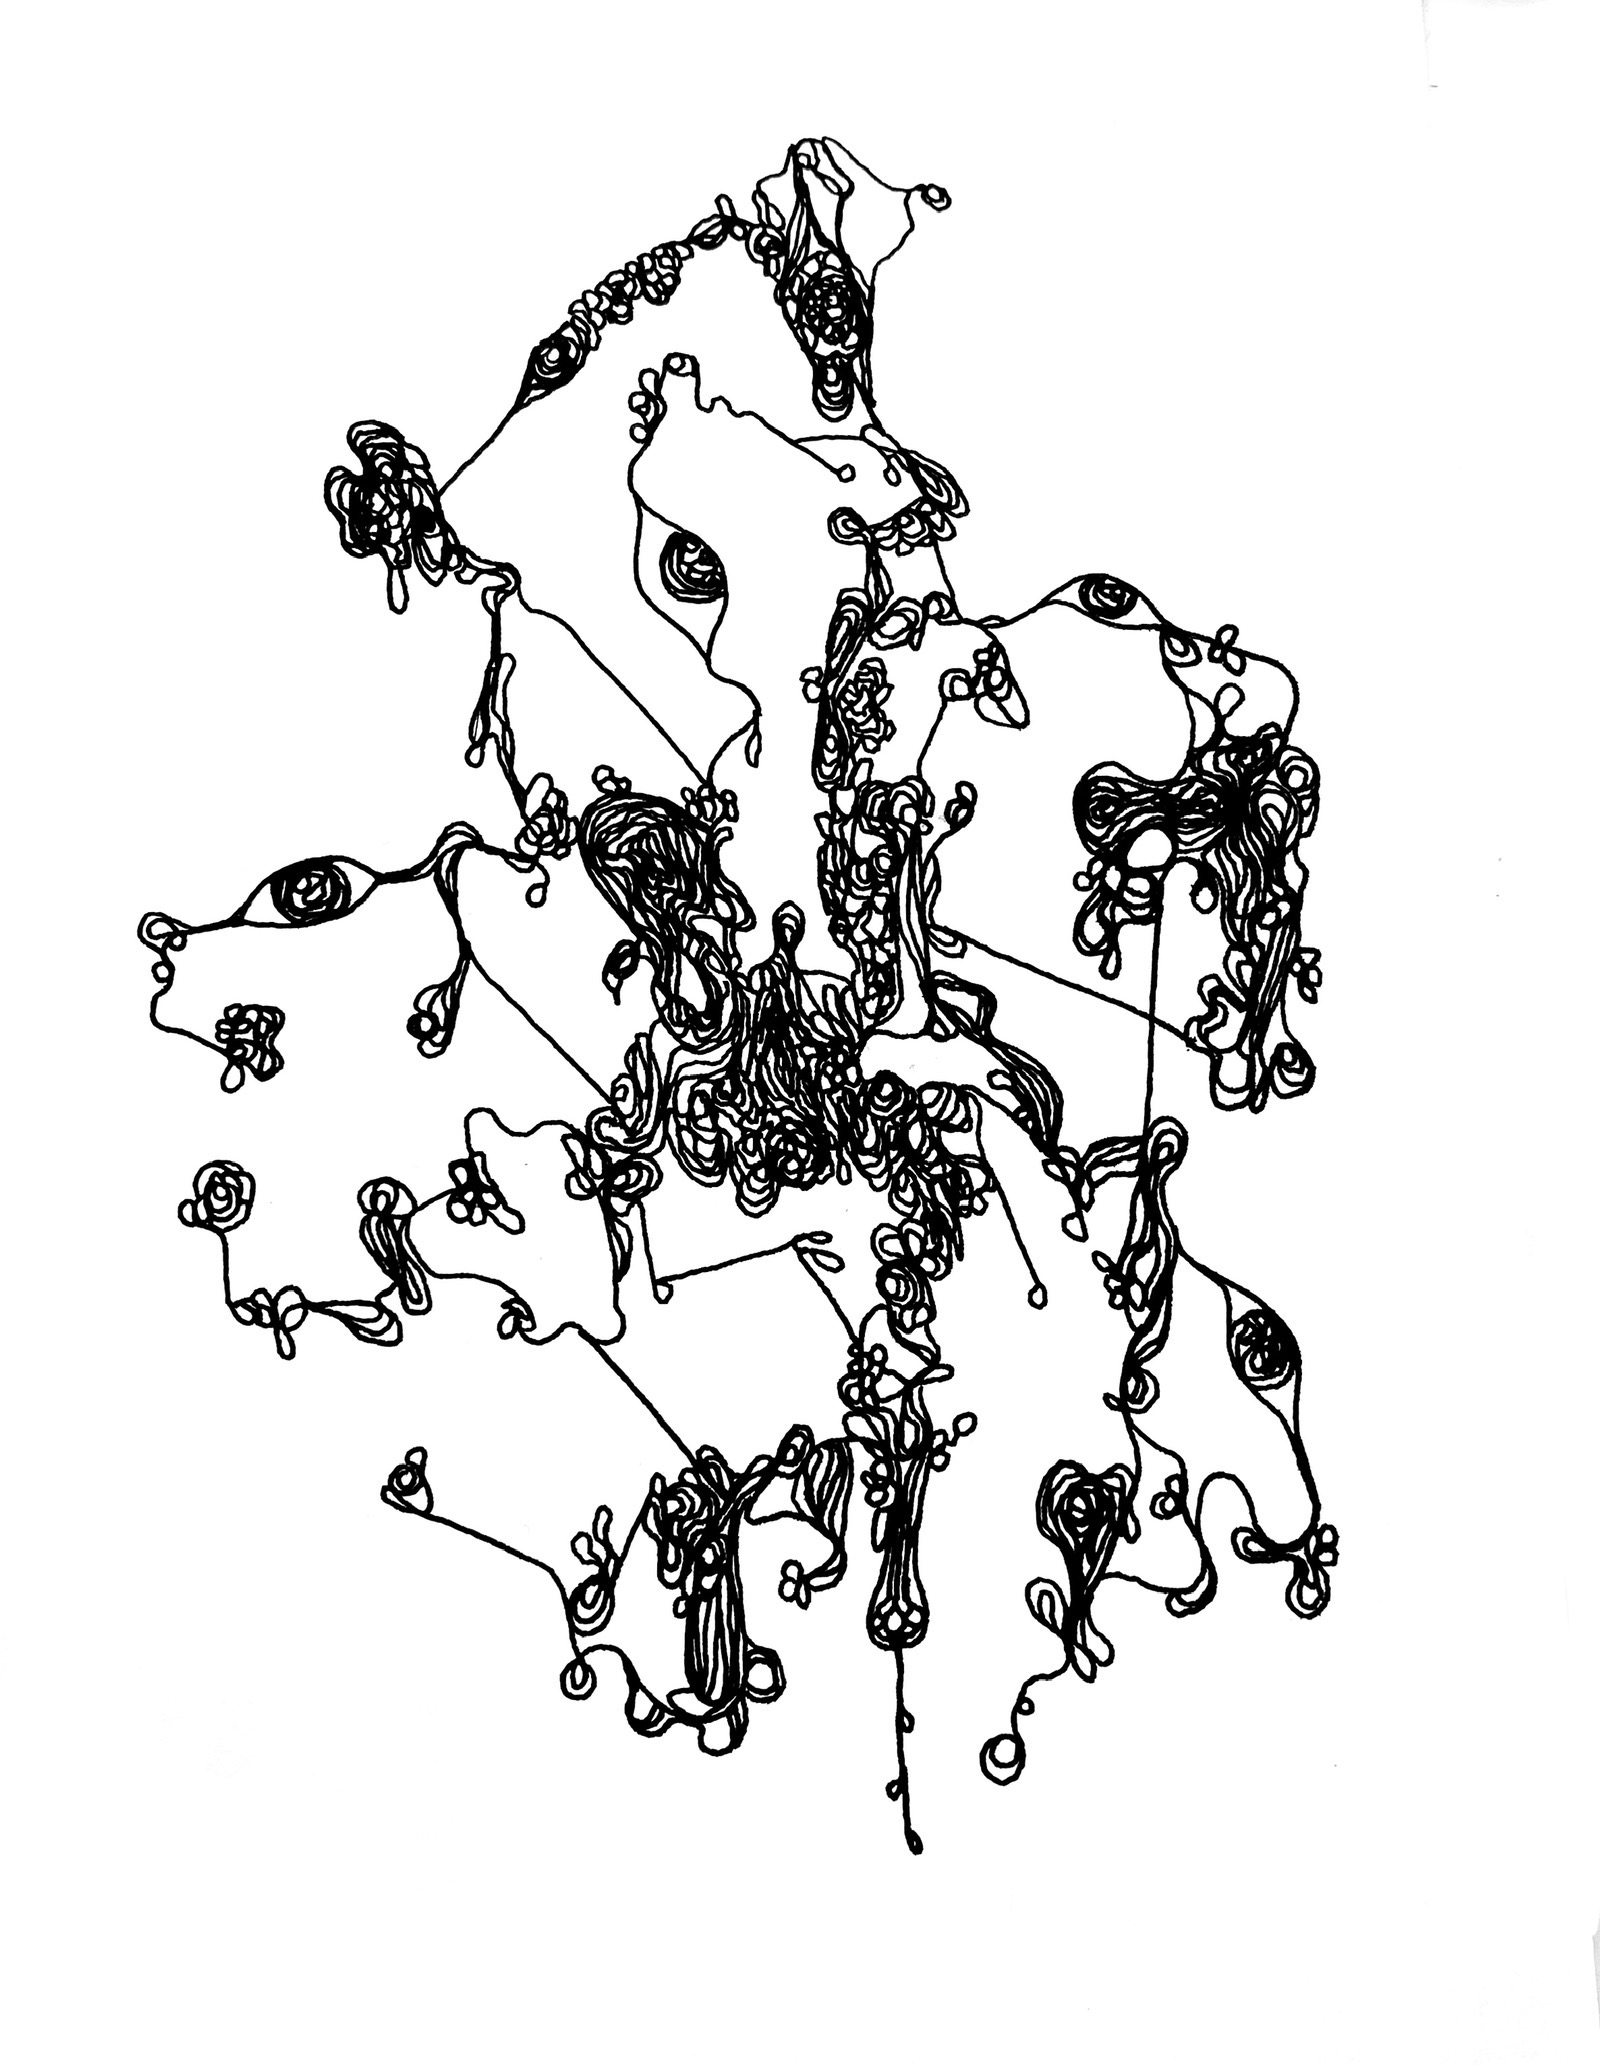
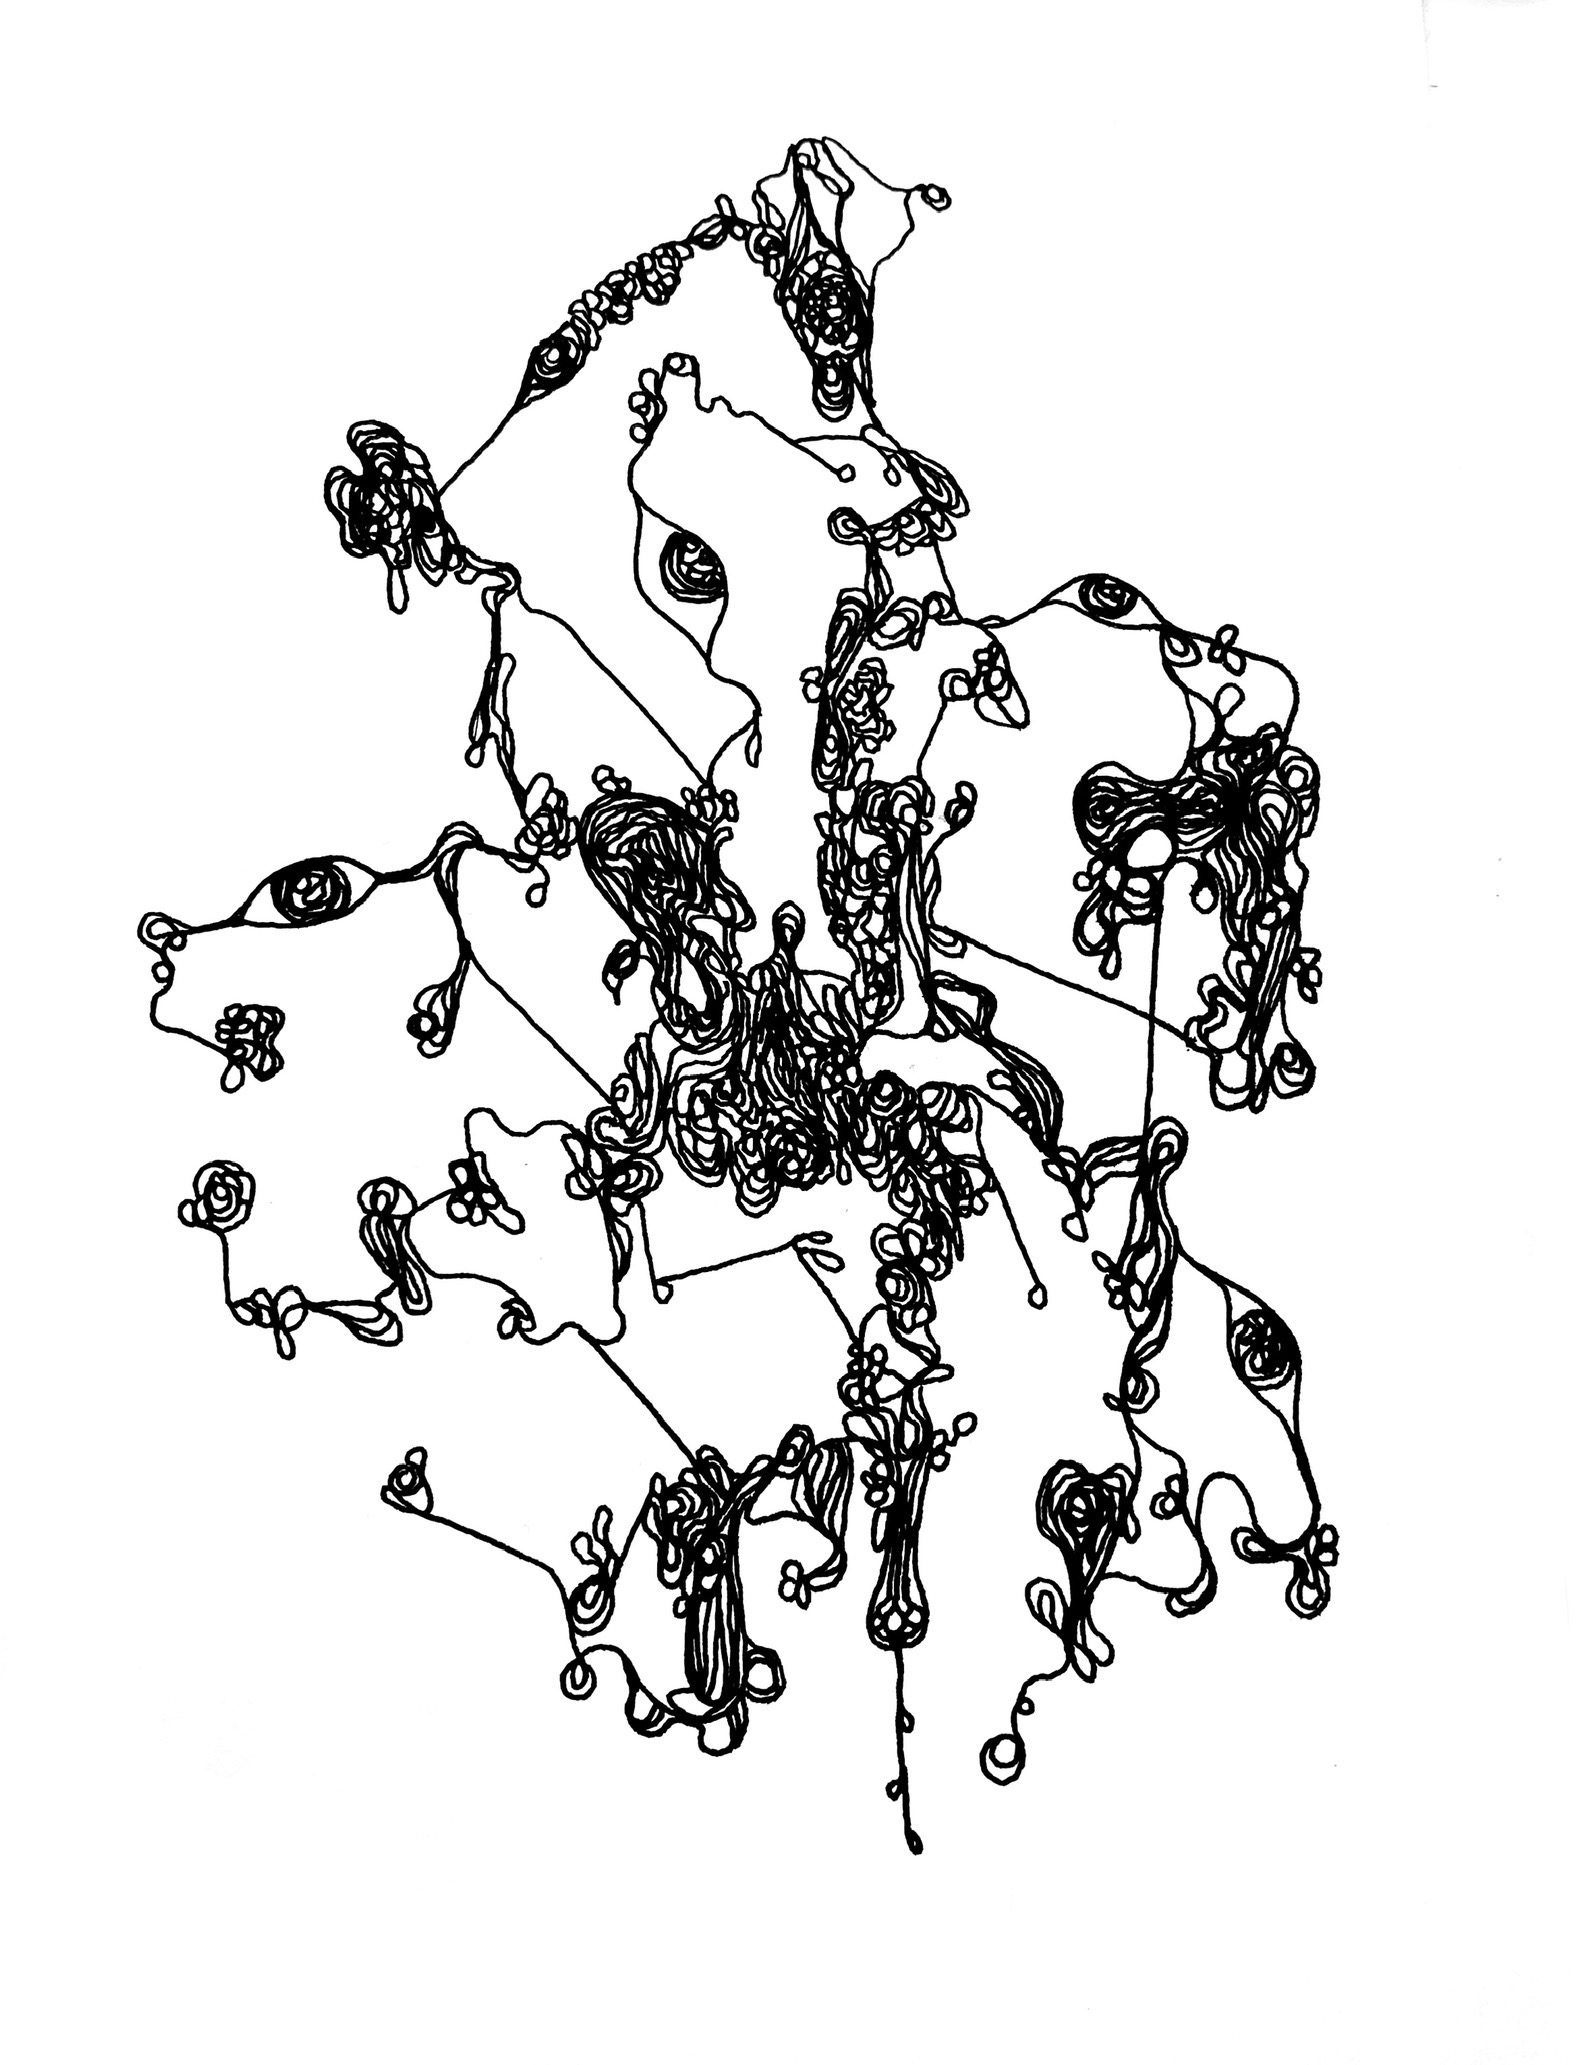
New drawings

diff --git a/Drawings/index.html b/Drawings/index.html
@@ -22,33 +22,52 @@
         display: block;   /* Removes extra bottom space */
         margin-bottom: 10px; /* Space between images */
         }
+        p {text-align: center;}
     </style>
 </head>
 
 <body>
   <div class="container">
     <div class="vertical-stack">
-        
-        <img src="IMG_4757.jpg" alt="Image 7">
+        <img src="03_09_25.jpg" alt="03_09_25">
+        <p>3.9.25</p>
+        <p>--------------------------------------</p>
+        <img src="06_12_24.jpg" alt="06_12_24">
+        <p>6.12.24</p>
+        <p>--------------------------------------</p>
+        <img src="IMG_4757.jpg" alt="Image 8">
         <p>7.22.23</p>
+        <p>--------------------------------------</p>
+        <img src="05_14_23.JPG" alt="Image 7">
+        <p>5.14.23</p>
+        <p>--------------------------------------</p>
         <img src="IMG_2731.jpg" alt="Image 6">
         <p>1.26.23</p>
+        <p>--------------------------------------</p>
         <img src="IMG_0859.jpg" alt="Image 5">
         <p>8.4.22</p>
+        <p>--------------------------------------</p>
         <img src="IMG_0582.jpg" alt="Image 4">
         <p>7.21.22</p>
+        <p>--------------------------------------</p>
         <img src="IMG_0581.jpg" alt="Image 3">
         <p>7.21.22</p>
+        <p>--------------------------------------</p>
         <img src="IMG_0580.jpg" alt="Image 2">
         <p>7.21.22</p>
+        <p>--------------------------------------</p>
         <img src="IMG_0579.jpg" alt="Image 1">
         <p>7.21.22</p>
+        <p>--------------------------------------</p>
         <img src="IMG_8917.JPG" alt="Image 11">
         <p>5.7.22</p>
+        <p>--------------------------------------</p>
         <img src="IMG_8728.jpg" alt="Image 10">
         <p>5.5.22</p>
+        <p>--------------------------------------</p>
         <img src="IMG_8076.jpg" alt="Image 9">
         <p>1.10.22</p>
+        <p>--------------------------------------</p>
         <img src="IMG_7884.jpg" alt="Image 8">
         <p>12.8.21</p>
     </div>

diff --git a/index.html b/index.html
@@ -11,9 +11,7 @@
 <body>
     <header>
         <h1>Kyle Knightly (.com)</h1>
-        <p>If you found a journal in Paris with my name on it please email kyletknightly(spiral)gmail(point)com</p>
-        <p>Undergraduate math and biology student</p>
-        <p>The world would be a better place if instead of social media we all just kept a document with all our friends' URLs.</p>
+        <p>Math and biology undergraduate</p>
         <h3>Writings</h3>
         <p><a href="MaLT">Math and Living Things</a></p>
         <h3><a href = "Drawings" style="font-weight: bold;">Drawings</a></h3>
